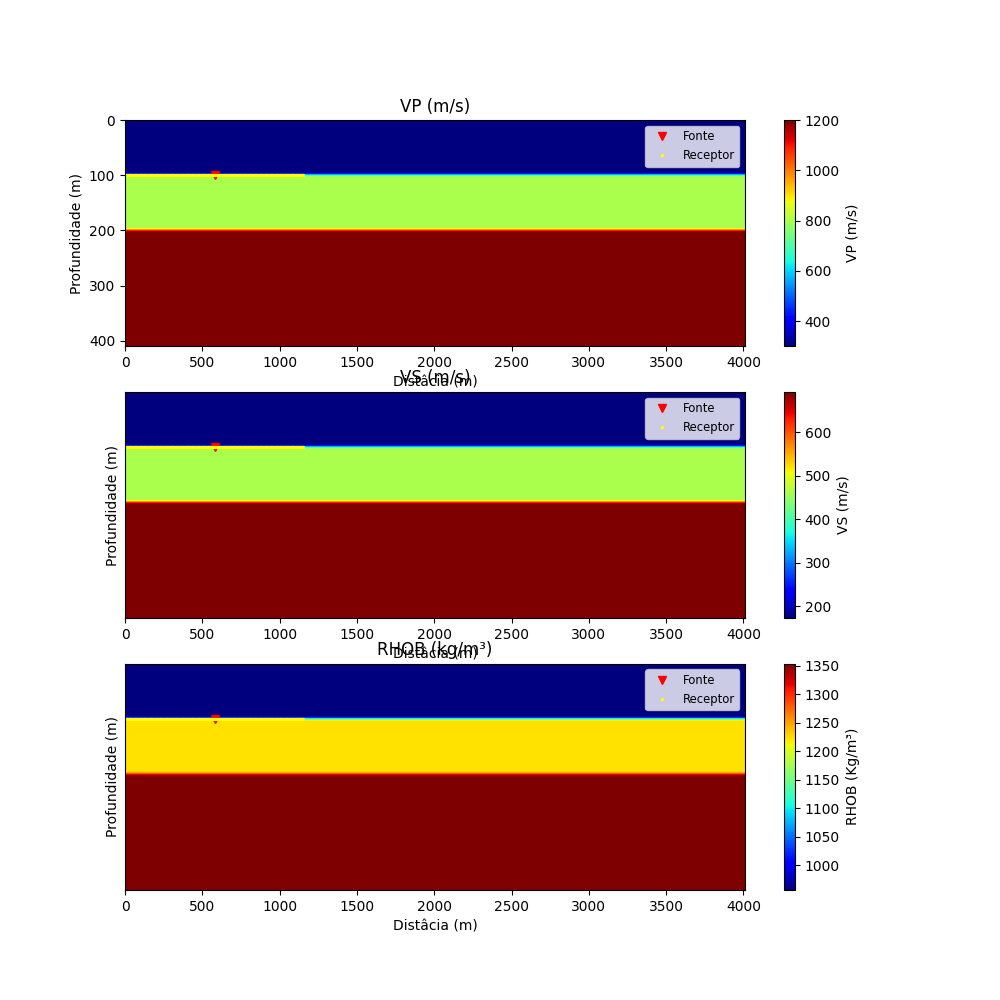
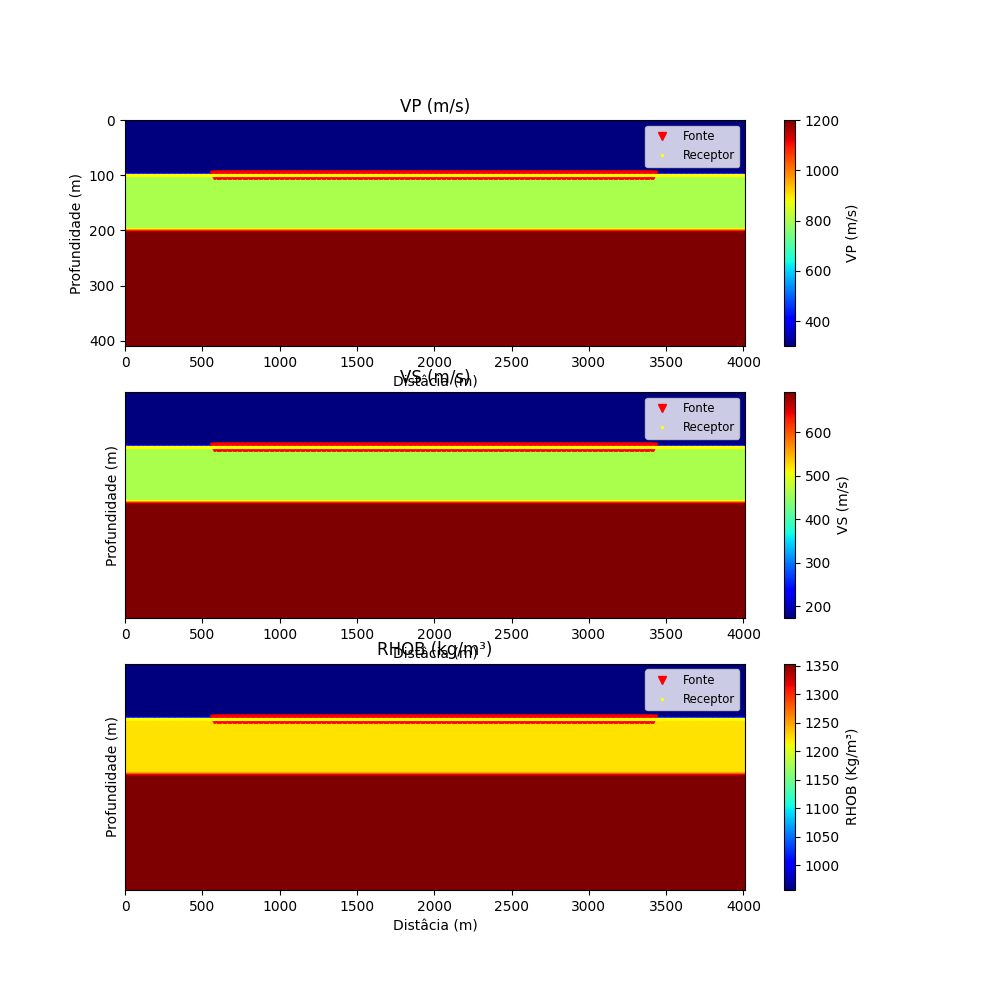
teste geometria

Changed region(s): [[0.217, 0.434, 0.744, 0.465], [0.217, 0.155, 0.744, 0.186], [0.217, 0.713, 0.682, 0.744]]

diff --git a/src/Example2.py b/src/Example2.py
@@ -62,20 +62,48 @@ srcindex = np.arange(1, len(src) + 1, 1)
 
 #---------------------------------------------------------
 
+# offset_min = 0
+# offset_max = 576
+# rec = np.arange(src[0] - offset_max, src[0] + offset_max + 1, 8)
+
+# print(len(rec))
+
+
+# # Profundidade do receptor
+# z_rec = np.zeros(len(rec))      
+# z_rec1 = np.arange(55.616, 50 - 0.076, -0.078)
+# z_rec2 = np.arange(50, 55.616 + 0.076,  0.078)
+
+# z_rec[:73] = z_rec1
+# z_rec[72:] = z_rec2
+
+#---------------------------------------------------------
+
+# Geometria de aquisição
 offset_min = 0
 offset_max = 576
-rec = np.arange(src[0] - offset_max, src[0] + offset_max + 1, 8)
+space = 8
+# Fonte
+#src = np.array([offset_max + space/2])
+src = np.arange(576, 3424, 8)
+# profundidade da fonte
+z_src = np.zeros(len(src))
+z_src[:] = 50
 
-print(len(rec))
+srcindex = np.arange(1, len(src) + 1, space)
+
+#---------------------------------------------------------
+
+# Receptor
+rec1 = np.arange(0, 4000 + 1, space)
+
+print(len(rec1))
 
 
-# Profundidade do receptor
-z_rec = np.zeros(len(rec))      
-z_rec1 = np.arange(55.616, 50 - 0.076, -0.078)
-z_rec2 = np.arange(50, 55.616 + 0.076,  0.078)
+# Profundidade do receptor      
+z_rec = np.zeros(len(rec1))
+z_rec[:] = 50
 
-z_rec[:73] = z_rec1
-z_rec[72:] = z_rec2
 
 #-------------------------------------------------------------------------------------#
 #-------------------------------------------------------------------------------------#
@@ -84,8 +112,8 @@ z_rec[72:] = z_rec2
 plt.figure(figsize=(10,8))
 plt.subplot(311)
 plt.imshow(VP, aspect='auto',extent=(0, nx*dx, nz*dx, 0), cmap='jet')
-#plt.plot(src, z_src, 'v', color='red', label='Fonte', markersize= 6)
-#plt.plot(rec, z_rec, '*', color='yellow', label='Receptor', markersize= 2)
+plt.plot(src, z_src, 'v', color='red', label='Fonte', markersize= 6)
+plt.plot(rec1, z_rec, '*', color='yellow', label='Receptor', markersize= 2)
 
 plt.title('Velocidade P')
 #plt.yticks([])  # Remova as marcações do eixo y
@@ -96,6 +124,8 @@ plt.colorbar(label='VP (m/s)')
 
 plt.subplot(312)
 plt.imshow(VS, aspect='auto',extent=(0, nx*dx, nz*dx, 0), cmap='jet')
+plt.plot(src, z_src, 'v', color='red', label='Fonte', markersize= 6)
+plt.plot(rec1, z_rec, '*', color='yellow', label='Receptor', markersize= 2)
 plt.title('Velocidade S')
 #plt.yticks([])  # Remova as marcações do eixo y
 plt.xlabel('Distância (m)')
@@ -104,6 +134,8 @@ plt.colorbar(label='VS (m/s)')
 
 plt.subplot(313)
 plt.imshow(RHOB, aspect='auto',extent=(0, nx*dx, nz*dx, 0), cmap='jet')
+plt.plot(src, z_src, 'v', color='red', label='Fonte', markersize= 6)
+plt.plot(rec1, z_rec, '*', color='yellow', label='Receptor', markersize= 2)
 plt.title('Densidade')
 #plt.yticks([])  # Remova as marcações do eixo y
 plt.xlabel('Distância (m)')

diff --git a/src/Model2D.py b/src/Model2D.py
@@ -45,8 +45,8 @@ offset_min = 0
 offset_max = 576
 space = 8
 # Fonte
-src = np.array([offset_max + space/2])
-
+#src = np.array([offset_max + space/2])
+src = np.arange(576, 3424, 8)
 # profundidade da fonte
 z_src = np.zeros(len(src))
 z_src[:] = prof[0]
@@ -60,7 +60,8 @@ srcindex = np.arange(1, len(src) + 1, space)
 #offset_max = src[0] + 480
 #rec = np.arange(offset_min, offset_max + 1, 10)
 
-rec1 = np.arange(0, (offset_max*2) + 1, space)
+#rec1 = np.arange(0, (offset_max*2) + 1, space)
+rec1 = np.arange(0, 4000 + 1, space)
 
 print(len(rec1))
 
@@ -132,23 +133,23 @@ RHOB.T.astype('float32', order= 'F').tofile(f'rhob_2D_{nz}x{nx}_{dx:.0f}m.bin')
 # Criando e salvando tabela de fontesd
 #formats = ['%d', '%d', '%.2f', '%.2f']
 
-src_table = np.zeros((len(src), 4))
-src_table[:, 0] = srcindex
-src_table[:, 1] = srcindex
-src_table[:, 2] = src
-src_table[:, 3] = z_src
-np.savetxt('Tabela de fonte', src_table, delimiter=',', fmt='%.2f')
+# src_table = np.zeros((len(src), 4))
+# src_table[:, 0] = srcindex
+# src_table[:, 1] = srcindex
+# src_table[:, 2] = src
+# src_table[:, 3] = z_src
+# np.savetxt('Tabela de fonte', src_table, delimiter=',', fmt='%.2f')
 
-# Criando e salvando tabela de receptores
-rec_table = np.zeros((len(rec1), 5))
-rec_table[:, 0] = reciveindex
-rec_table[:, 1] = reciveindex
-rec_table[:, 2] = rec1
-rec_table[:, 3] = z_rec
-np.savetxt('Tabela de Receptores', rec_table, delimiter=',', fmt='%.2f')
+# # Criando e salvando tabela de receptores
+# rec_table = np.zeros((len(rec1), 5))
+# rec_table[:, 0] = reciveindex
+# rec_table[:, 1] = reciveindex
+# rec_table[:, 2] = rec1
+# rec_table[:, 3] = z_rec
+# np.savetxt('Tabela de Receptores', rec_table, delimiter=',', fmt='%.2f')
 
-# Criando e salvando tabela de relação
-np.savetxt('tabela_relacao', tabela_relacao, delimiter=',', fmt='%d')
+# # Criando e salvando tabela de relação
+# np.savetxt('tabela_relacao', tabela_relacao, delimiter=',', fmt='%d')
 
-#---------------------------------------------------------
-#---------------------------------------------------------
+# #---------------------------------------------------------
+# #---------------------------------------------------------
